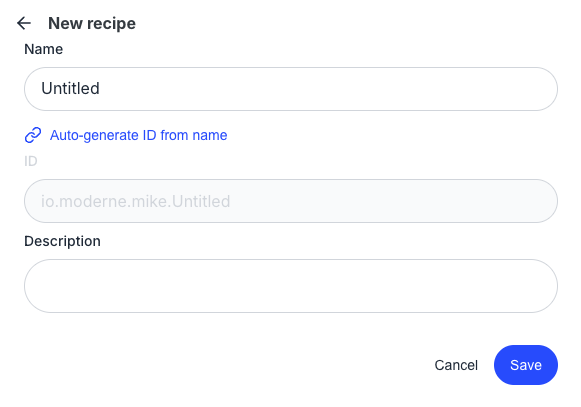
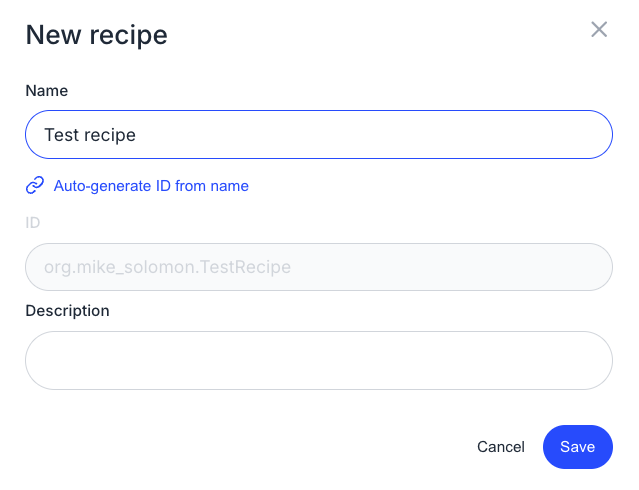
Add information about custom user categories from recipes
Fixes: https://github.com/moderneinc/moderne-docs/issues/842

diff --git a/docs/user-documentation/moderne-platform/how-to-guides/new-recipe-builder.md b/docs/user-documentation/moderne-platform/how-to-guides/new-recipe-builder.md
@@ -76,6 +76,24 @@ To create a custom recipe you will need to:
 
 9. Victory!
 
+## How custom recipes appear in the marketplace
+
+Custom recipes you build can appear in a personal category in the marketplace that only you can see. This makes it easy to find and re-run the recipes you've built without recreating them each time.
+
+Moderne adds a recipe to this category when you:
+
+* Run it from the builder (for example, by clicking **Dry Run**), or
+* Edit the recipe's YAML in the builder and save it.
+
+The category a recipe appears under comes from the package structure of its ID. If you let Moderne auto-generate the ID from the recipe's name, it follows the pattern `org.<username>.<RecipeName>`, which groups all of your auto-generated recipes under a single category named after your username:
+
+<figure>
+  ![Marketplace category list with a personal category named after the user highlighted, containing the user's custom recipes](./assets/marketplace-custom-recipe-category.png)
+  <figcaption>_Custom recipes grouped under a personal marketplace category_</figcaption>
+</figure>
+
+If you'd rather organize your recipes differently, you can set the ID yourself when you create the recipe. The package segments you choose determine the category, and any nested subcategories, that your recipe appears under.
+
 ## How to create or add recipes from the marketplace
 
 From any recipe in the marketplace, you can click on the `Add to builder` button: